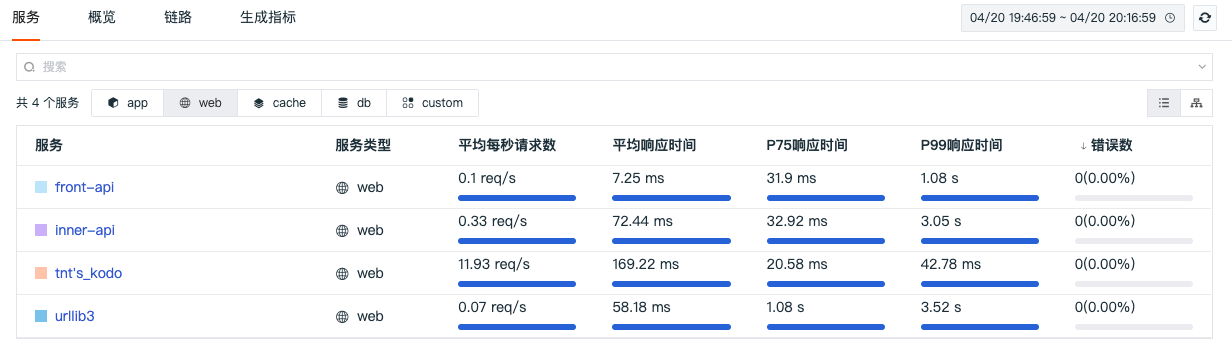
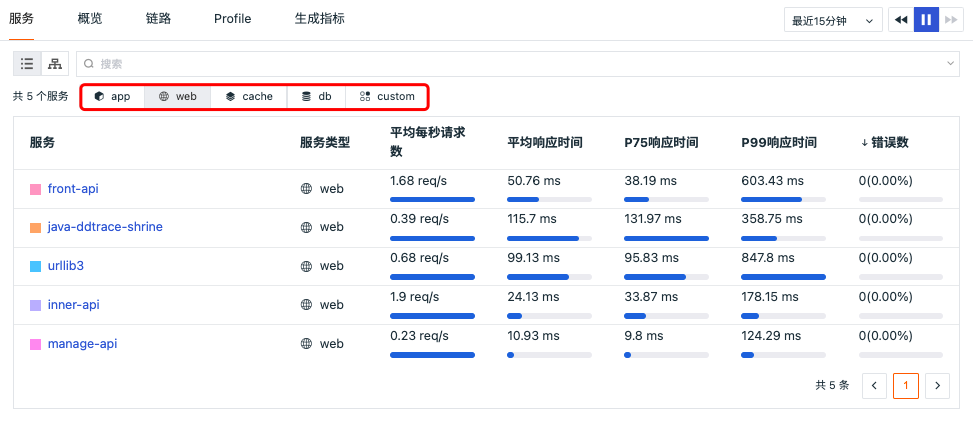
2022-6-21其他优化

diff --git a/docs/application-performance-monitoring/service.md b/docs/application-performance-monitoring/service.md
@@ -7,7 +7,7 @@
 
 ## 服务列表和关键性能指标
 
-登录观测云控制台后，点击 「应用性能监测」的「服务」列表，即可查看时间范围内的所有服务列表及其对应的关键性能指标。链路追踪服务列表的对应的关键性能指标包括“平均每秒请求数”、“平均响应时间”、“P75响应时间”、“P95响应时间”和“错误数”，默认按照“错误数”倒序排序，支持点击关键性能指标名称调整排序显示。
+登录观测云控制台后，点击 「应用性能监测」的「服务」列表，即可查看选定时间范围内的所有服务列表及其对应的关键性能指标。链路追踪服务列表的对应的关键性能指标包括“平均每秒请求数”、“平均响应时间”、“P75响应时间”、“P95响应时间”和“错误数”，默认按照“错误数”倒序排序，支持点击关键性能指标名称调整排序显示。
 
 ![](img/1.apm_1.png)
 
@@ -21,6 +21,7 @@
 
 在服务列表中，观测云支持您通过搜索关键字，筛选等方式查询服务数据。
 
+- 您可以通过右上角的时间组件，服务数据展示的时间范围
 - 您可以快速基于文本数据的分词搜索匹配相关服务数据
 - 您可以快速通过基于「env」、「version」、「project」和「service」等的一个或多个标签对链路服务进行字段筛选
 - 使用“鼠标悬停”至「错误数」，点击 “搜索” 图标即可跳转至「链路」页，查看该服务在当前选定的时间范围内，相同筛选条件下 ，数据状态 "status" 为“error” 的链路数据。

diff --git a/docs/real-user-monitoring/sampling.md b/docs/real-user-monitoring/sampling.md
@@ -9,7 +9,10 @@
 
 ## 采样设置
 
-登录 “观测云” 控制台，进入「用户访问监测」页面，点击右上角「新建应用」，在新窗口输入「应用名称」，点击「创建」，即可选择应用类型获取接入方式。Web应用接入的有三种方式：NPM 接入、同步载入和异步载入。
+登录 “观测云” 控制台，进入「用户访问监测」页面，点击右上角「新建应用」，在新窗口输入「应用名称」并自定义「应用ID」，点击「创建」，即可选择应用类型获取接入方式。Web应用接入的有三种方式：NPM 接入、同步载入和异步载入。
+
+- 应用名称（必填项）：用于识别当前实施用户访问监控的应用名称。
+- 应用ID（选填）：当前空间内唯一的应用ID标识，支持用于数据上传匹配；应用ID标识最多为 20 个字符，仅支持输入大小写字母。
 
 ![](img/sampling.png)
 
@@ -20,7 +23,7 @@
 <script>
   window.DATAFLUX_RUM &&
     window.DATAFLUX_RUM.init({
-      applicationId: 'appid_48617201757b4dcc86f3e3291dfa7e4b',
+      applicationId: 'ssnsakdjkajd_appid_UjUsdXxYNE24YKzjSqtbsK',
       datakitOrigin: '<DATAKIT ORIGIN>', // 协议（包括：//），域名（或IP地址）[和端口号]
       sampleRate: 90,
       //  env: 'production',

diff --git a/docs/logs/blacklist.md b/docs/logs/blacklist.md
@@ -9,9 +9,9 @@
 
 ![](img/1.log_11.png)
 
-选择「来源」，添加一条或多条日志筛选过滤规则，点击确定即默认开启该日志过滤规则。您可以通过「日志黑名单」，查看全部日志过滤规则。
+选择「来源」，添加一条或多条日志筛选过滤规则，点击"确定"即默认开启该日志过滤规则。您可以通过「日志黑名单」，查看全部日志过滤规则。
 
-- 来源：支持选择日志全部来源或者
+- 来源：支持选择日志全部来源或者单一日志来源
 - 过滤：支持两种条件选择，“任意”和“所有”。“任意”为 “或（OR）”条件，“所有”为“且（AND）”条件。
 - 字段名：支持手动输入字段名，必须是精准值，可以在日志查看器“显示列”查看需要匹配的字段名。
 - 字段值：支持手动输入字段值，支持输入单值、多值；支持正则匹配，如abc*，*abc*，*abc，.*等
